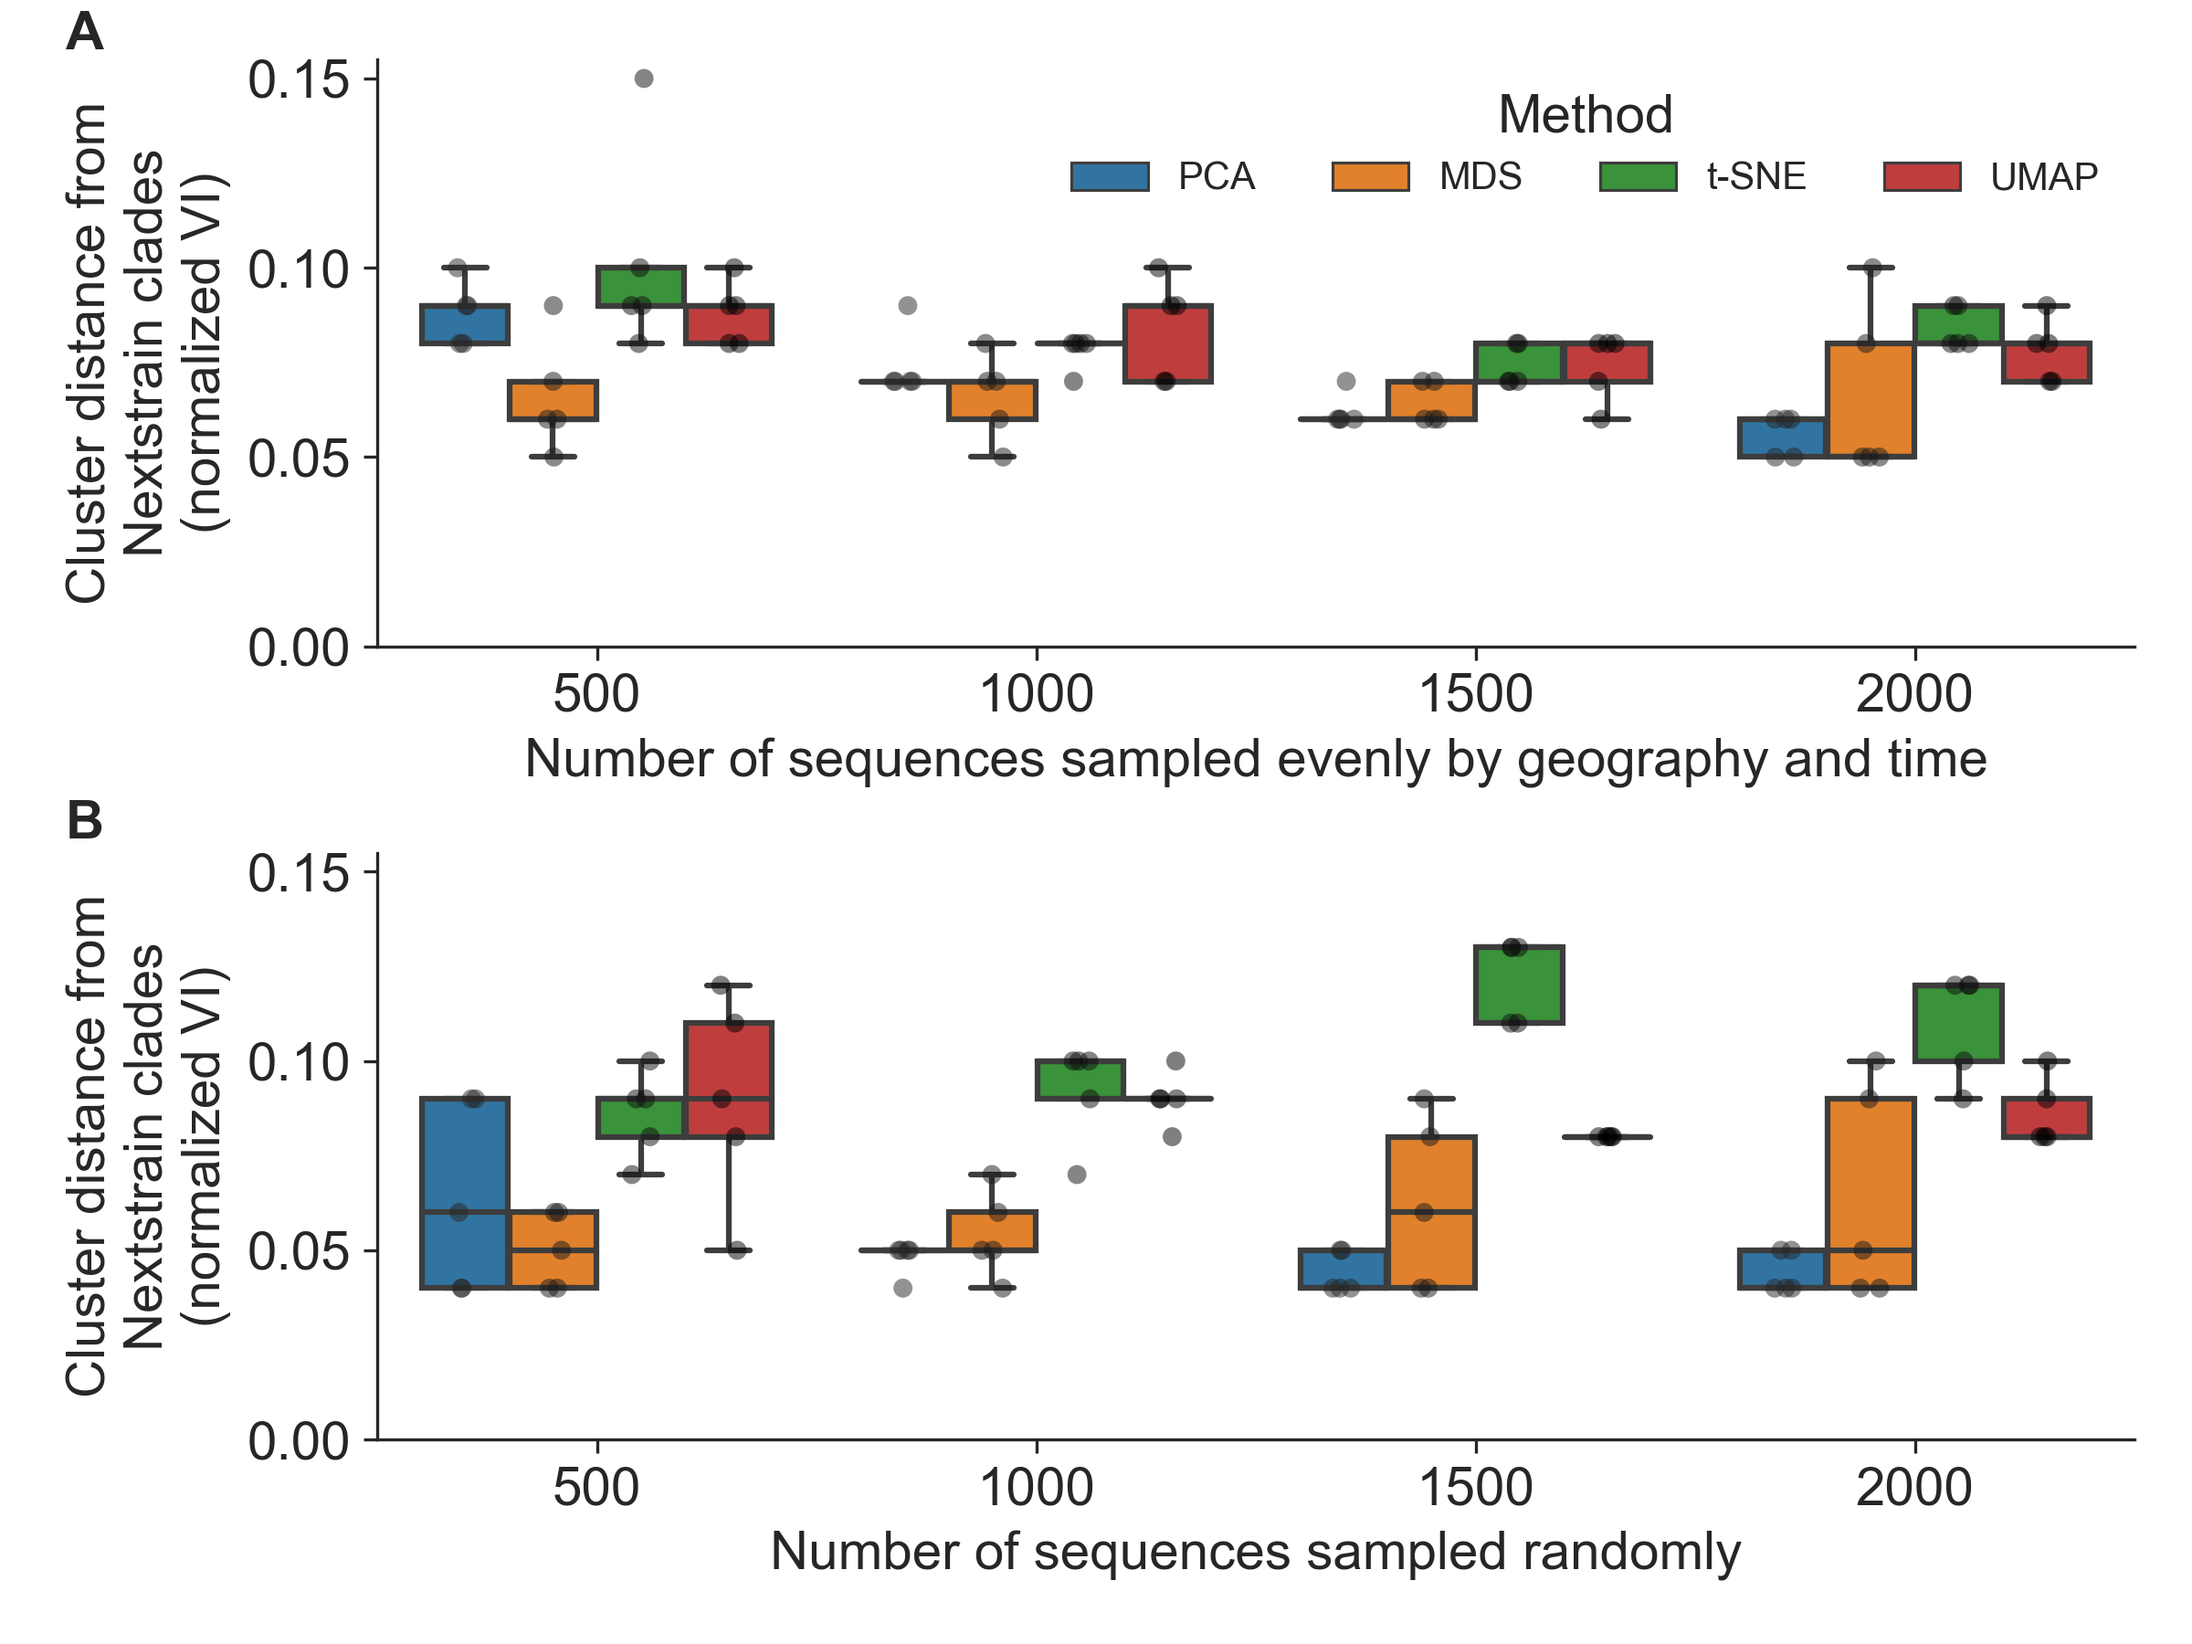
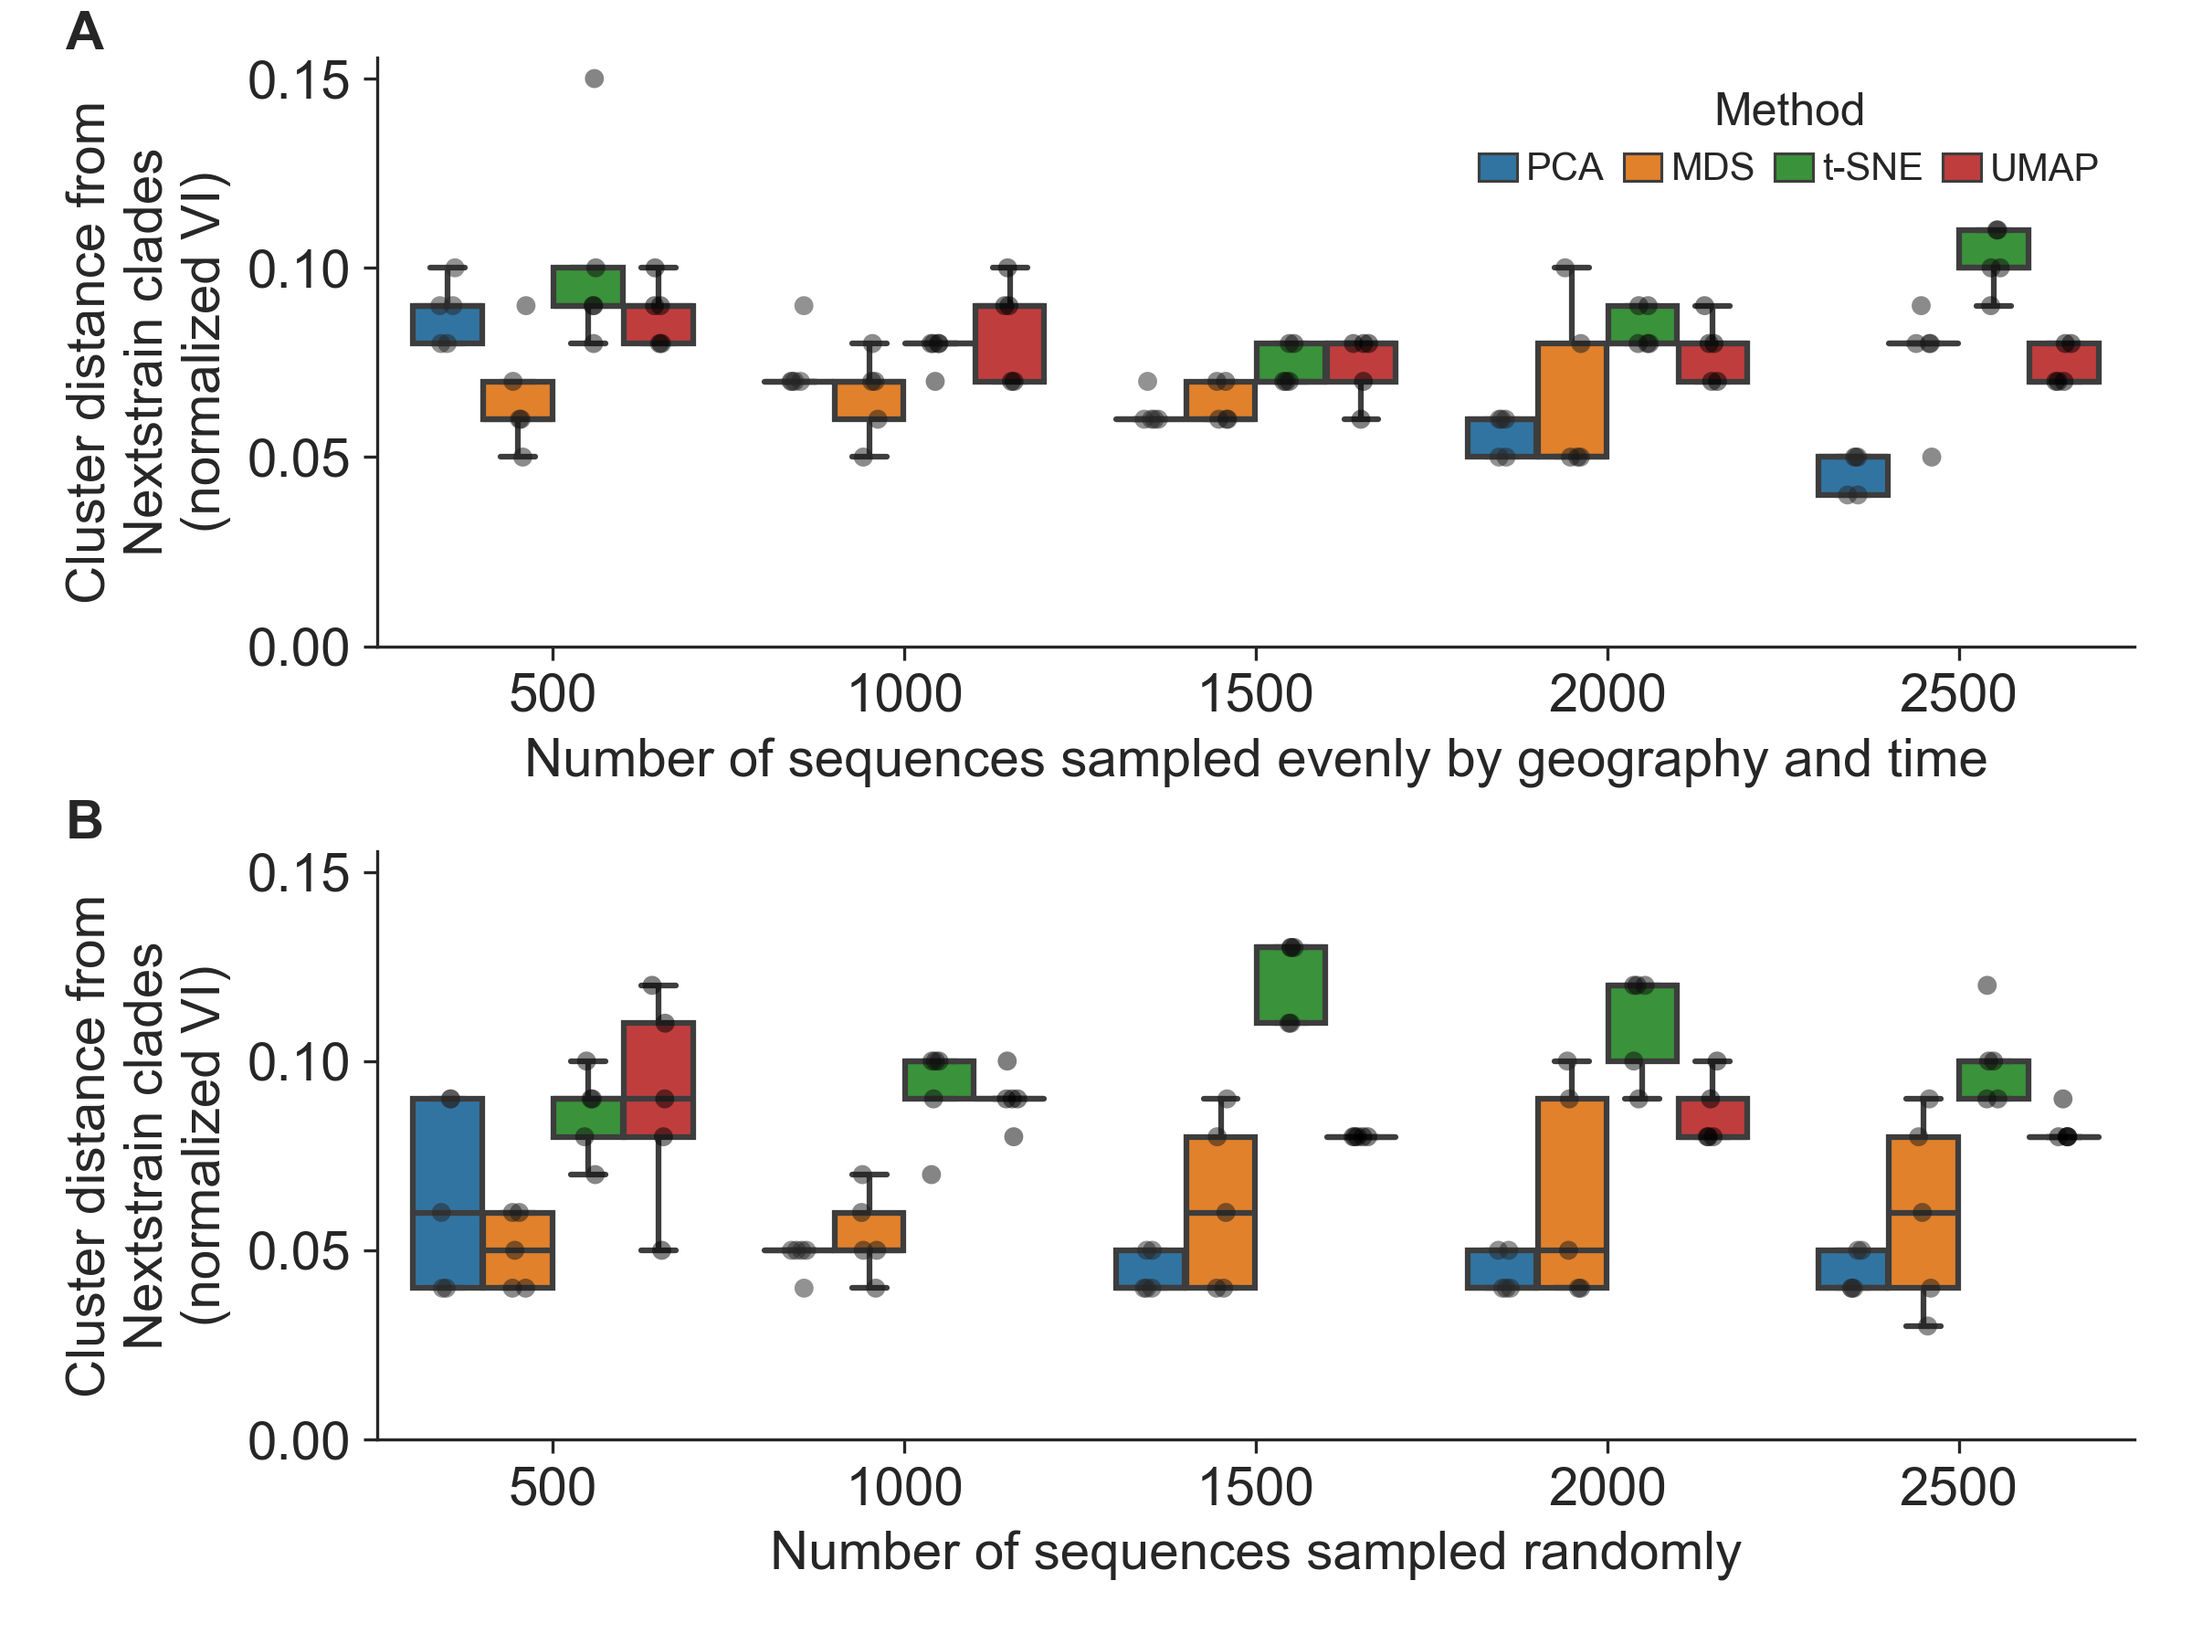
Refine replication analysis
Add another number of total sequences (2500) to match the number
actually sampled in late SC2 data, refine text in the results, and
refine the aesthetics of the figure legends.

diff --git a/manuscript/cartography.tex b/manuscript/cartography.tex
@@ -447,8 +447,9 @@ On inspection of this clade, we found recurrent HA1 substitutions of 135K, 142G,
 Clusters from t-SNE, UMAP, and PCA followed closely in accuracy (normalized VI=0.08, 0.08, and 0.09) with 5, 7, and 6 clusters, respectively.
 We identified 25 cluster-specific mutations for four of the six PCA clusters, 51 for all six MDS clusters, 53 for all five t-SNE clusters, and 30 for five of the seven UMAP clusters (\nameref{S_Table_mutations_per_cluster}).
 Pairwise genetic distances within clusters generally matched the diversity within Nextstrain clades (\nameref{S_Fig_flu_within_between_group_distances}).
-Cluster accuracies for most methods remained robust to sampling bias and density (\nameref{S_Fig_late_flu_replication_of_cluster_accuracy}).
+Cluster accuracies for PCA, MDS, and UMAP remained robust to sampling bias and density (\nameref{S_Fig_late_flu_replication_of_cluster_accuracy}).
 However, t-SNE clusters were less accurate under random sampling conditions where the selected data were biased geographically toward the USA and genetically toward the Nextstrain clade 3c3.A.
+Even under even geographic and temporal sampling, t-SNE cluster accuracy decreased at sampling densities less than 1000 and greater than 1500.
 These results show that all four methods can produce well-supported clusters that accurately capture known genetic groups when applied to previously unseen H3N2 HA samples.
 
 \begin{figure}[!h]
@@ -811,7 +812,7 @@ Finally, we used these optimal distance thresholds to identify clusters in out-o
 
 The cluster accuracies we estimated for late H3N2 HA and SARS-CoV-2 datasets represented a single VI measurement for a single pathogen dataset.
 To understand how robust these accuracies were across different datasets, we generated alternate random samples from both late pathogen datasets using two different sampling schemes and a range of total sequences sampled.
-Specifically, we sampled 500, 1000, 1500, or 2000 total sequences for five replicates per pathogen (random seeds of 0, 1, 2, 3, and 4) with either even sampling by geography and time or random sampling.
+Specifically, we sampled 500, 1000, 1500, 2000, or 2500 total sequences for five replicates per pathogen (random seeds of 0, 1, 2, 3, and 4) with either even sampling by geography and time or random sampling.
 For the relatively smaller influenza data, we evenly sampled by country, year, and month.
 For the larger SARS-CoV-2 data, we evenly sampled by region, year, and month.
 Even sampling attempted to minimize geographic and temporal biases in the original data.
